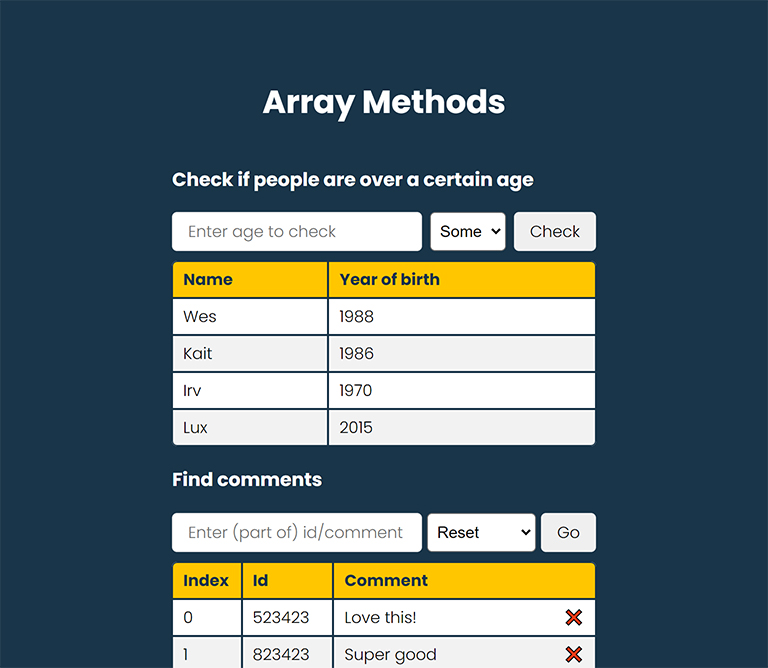
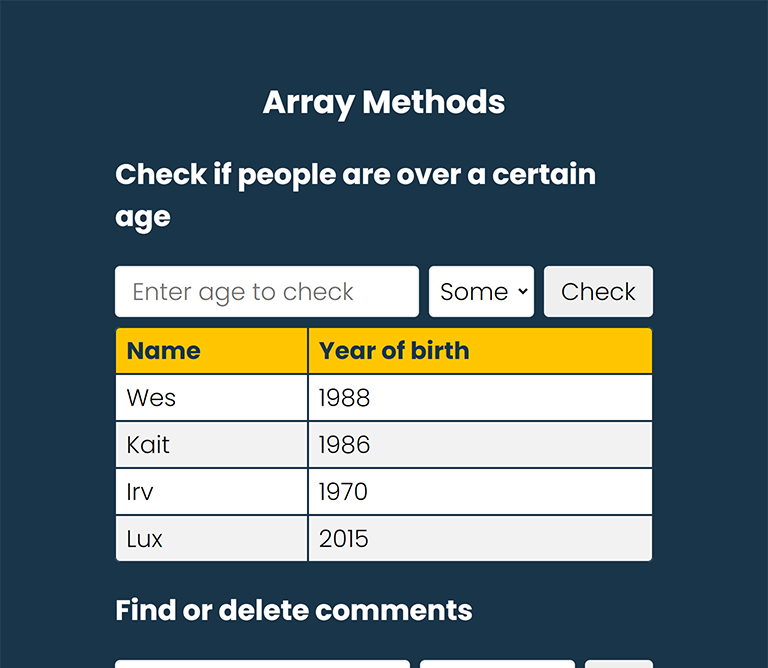
D7 🦋 add responsive styles

diff --git a/07-array-methods-2/styles.css b/07-array-methods-2/styles.css
@@ -8,6 +8,7 @@ html {
 
 body {
   font-family: 'Poppins', Arial, Helvetica, sans-serif;
+  font-size: 1.2rem;
   font-weight: 300;
   display: flex;
   flex-direction: column;
@@ -20,6 +21,12 @@ select {
   font-family: 'Poppins', Arial, Helvetica, sans-serif;
 }
 
+main {
+  width: 95vw;
+  max-width: 700px;
+  margin-bottom: 20px;
+}
+
 h2,
 h3 {
   color: #fff;
@@ -29,7 +36,7 @@ h2 {
   font-size: 2rem;
   text-align: center;
   font-weight: 700;
-  margin: 70px 0 20px 0;
+  margin-block: 70px 0;
 }
 
 hr {
@@ -78,11 +85,11 @@ button {
 form {
   display: flex;
   justify-content: space-between;
-  gap: 5px;
+  flex-direction: column;
+  gap: 10px;
 }
 
 .data-list {
-  min-width: 400px;
   width: 100%;
   margin-top: 10px;
   border-collapse: separate;
@@ -144,4 +151,26 @@ form {
 .btn-delete {
   float: right;
   cursor: pointer;
+}
+@media only screen and (min-width: 425px) {
+  body {
+    font-size: 1.4rem;
+  }
+}
+@media only screen and (min-width: 640px) {
+  body {
+    font-size: 1.5rem;
+  }
+  main {
+    width: 70vw;
+  }
+  form {
+    flex-direction: row;
+  }
+}
+
+@media only screen and (min-width: 1024px) {
+  form {
+    justify-content: flex-start;
+  }
 }

diff --git a/07-array-methods-2/index.html b/07-array-methods-2/index.html
@@ -17,7 +17,7 @@
     <section>
       <h3>Check if people are over a certain age</h3>
       <form id="people-actions">
-        <input type="text" name="input" placeholder="Enter age to check">
+        <input type="text" name="input" placeholder="Enter age to check" autocomplete="off">
         <select name="actoin" id="action">
           <option value="some">Some</option>
           <option value="every">Every</option>
@@ -40,7 +40,7 @@
     <section>
       <h3>Find or delete comments</h3>
       <form id="comments-actions">
-        <input name="input" type="text" placeholder="Enter (part of) id/comment">
+        <input name="input" type="text" placeholder="Enter (part of) id/comment" autocomplete="off">
         <select name="actoin" id="action">
           <option value="find">Find First</option>
           <option value="filter">Find All</option>
@@ -53,7 +53,7 @@
       <table class="data-list">
         <thead>
           <tr>
-            <th>Index</th>
+            <th>#</th>
             <th>Id</th>
             <th>Comment</th>
           </tr>
